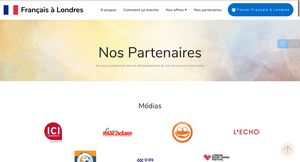
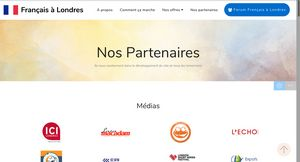
add expat et change movaway

diff --git a/nos-partenaires.html b/nos-partenaires.html
@@ -295,7 +295,7 @@ body{font-family: Roboto;}blockquote{border-color: #f9d5bd;}.display-1{font-fami
             <div class="item-card mbr-col-sm-12 mbr-col-md-6 mbr-col-lg-3 last-child">
                 <div class="client-wrapper">
                     <div class="wrap-img">
-                        <amp-img src="assets/images/expats-parents-logo-260x195.png" layout="responsive" width="130.66666666666666" height="98" alt="expatsparents.fr" class="mobirise-loader">
+                        <amp-img src="assets/images/expats-parents-logo-1-260x195.png" layout="responsive" width="130.66666666666666" height="98" alt="expatsparents.fr" class="mobirise-loader">
                             <div placeholder="">
                                 <div class="mobirise-spinner">
                                     <em></em>
@@ -490,10 +490,10 @@ body{font-family: Roboto;}blockquote{border-color: #f9d5bd;}.display-1{font-fami
             Logement</h2>
         
         <div class="mbr-row mbr-justify-content-center">
-            <div class="item-card mbr-col-sm-12 mbr-col-md-6 mbr-col-lg-4 md-pb">
+            <div class="item-card mbr-col-sm-12 mbr-col-md-6 mbr-col-lg-3 md-pb">
                 <div class="client-wrapper">
                     <div class="wrap-img">
-                        <amp-img src="assets/images/london-stay-uk-350x263.png" layout="responsive" width="175.66539923954375" height="132" alt="London stay uk" class="mobirise-loader">
+                        <amp-img src="assets/images/london-stay-uk-350x263.png" layout="responsive" width="127.75665399239544" height="96" alt="London stay uk" class="mobirise-loader">
                             <div placeholder="">
                                 <div class="mobirise-spinner">
                                     <em></em>
@@ -511,10 +511,10 @@ body{font-family: Roboto;}blockquote{border-color: #f9d5bd;}.display-1{font-fami
                 </div>
             </div>
 
-            <div class="item-card mbr-col-sm-12 mbr-col-md-6 mbr-col-lg-4 md-pb">
+            <div class="item-card mbr-col-sm-12 mbr-col-md-6 mbr-col-lg-3 md-pb">
                 <div class="client-wrapper">
                     <div class="wrap-img">
-                        <amp-img src="assets/images/room-club-350x263.png" layout="responsive" width="175.66539923954375" height="132" alt="Room Club" class="mobirise-loader">
+                        <amp-img src="assets/images/room-club-350x263.png" layout="responsive" width="127.75665399239544" height="96" alt="Room Club" class="mobirise-loader">
                             <div placeholder="">
                                 <div class="mobirise-spinner">
                                     <em></em>
@@ -532,10 +532,10 @@ body{font-family: Roboto;}blockquote{border-color: #f9d5bd;}.display-1{font-fami
                 </div>
             </div>
 
-            <div class="item-card mbr-col-sm-12 mbr-col-md-6 mbr-col-lg-4 last-child">
+            <div class="item-card mbr-col-sm-12 mbr-col-md-6 mbr-col-lg-3">
                 <div class="client-wrapper">
                     <div class="wrap-img">
-                        <amp-img src="assets/images/londres-facile-350x263.png" layout="responsive" width="175.66539923954375" height="132" alt="Londres-Facile" class="mobirise-loader">
+                        <amp-img src="assets/images/londres-facile-350x263.png" layout="responsive" width="127.75665399239544" height="96" alt="Londres-Facile" class="mobirise-loader">
                             <div placeholder="">
                                 <div class="mobirise-spinner">
                                     <em></em>
@@ -553,7 +553,26 @@ body{font-family: Roboto;}blockquote{border-color: #f9d5bd;}.display-1{font-fami
                 </div>
             </div>
 
-            
+            <div class="item-card mbr-col-sm-12 mbr-col-md-6 mbr-col-lg-3 last-child">
+                <div class="client-wrapper">
+                    <div class="wrap-img">
+                        <amp-img src="assets/images/1-256x192.png" layout="responsive" width="128" height="96" alt="movaway.fr" class="mobirise-loader">
+                            <div placeholder="">
+                                <div class="mobirise-spinner">
+                                    <em></em>
+                                    <em></em>
+                                    <em></em>
+                                </div>
+                            </div>
+                            <a href="https://movaway.fr/"></a>
+                        </amp-img>
+                    </div>
+                    <div class="card-box">
+                        
+                          
+                    </div> 
+                </div>
+            </div>
 
             
 
@@ -643,7 +662,7 @@ body{font-family: Roboto;}blockquote{border-color: #f9d5bd;}.display-1{font-fami
             <div class="item-card mbr-col-sm-12 mbr-col-md-6 mbr-col-lg-3 md-pb lg-pb">
                 <div class="client-wrapper">
                     <div class="wrap-img">
-                        <amp-img src="assets/images/1-256x192.png" layout="responsive" width="130.66666666666666" height="98" alt="movaway" class="mobirise-loader">
+                        <amp-img src="assets/images/centre-charle-peguy-logo-256x192.png" layout="responsive" width="130.66666666666666" height="98" alt="centrecharlespeguy.com/" class="mobirise-loader">
                             <div placeholder="">
                                 <div class="mobirise-spinner">
                                     <em></em>
@@ -651,7 +670,7 @@ body{font-family: Roboto;}blockquote{border-color: #f9d5bd;}.display-1{font-fami
                                     <em></em>
                                 </div>
                             </div>
-                            <a href="https://movaway.fr/"></a>
+                            <a href="http://www.centrecharlespeguy.com/"></a>
                         </amp-img>
                     </div>
                     <div class="card-box">
@@ -661,7 +680,7 @@ body{font-family: Roboto;}blockquote{border-color: #f9d5bd;}.display-1{font-fami
                 </div>
             </div>
 
-            <div class="item-card mbr-col-sm-12 mbr-col-md-6 mbr-col-lg-3">
+            <div class="item-card mbr-col-sm-12 mbr-col-md-6 mbr-col-lg-3 last-child">
                 <div class="client-wrapper">
                     <div class="wrap-img">
                         <amp-img src="assets/images/2-256x192.png" layout="responsive" width="130.66666666666666" height="98" alt="Emploi en France" class="mobirise-loader">
@@ -682,26 +701,7 @@ body{font-family: Roboto;}blockquote{border-color: #f9d5bd;}.display-1{font-fami
                 </div>
             </div>
 
-            <div class="item-card mbr-col-sm-12 mbr-col-md-6 mbr-col-lg-3 last-child">
-                <div class="client-wrapper">
-                    <div class="wrap-img">
-                        <amp-img src="assets/images/centre-charle-peguy-logo-256x192.png" layout="responsive" width="130.66666666666666" height="98" alt="centrecharlespeguy.com" class="mobirise-loader">
-                            <div placeholder="">
-                                <div class="mobirise-spinner">
-                                    <em></em>
-                                    <em></em>
-                                    <em></em>
-                                </div>
-                            </div>
-                            <a href="http://www.centrecharlespeguy.com/"></a>
-                        </amp-img>
-                    </div>
-                    <div class="card-box">
-                        
-                          
-                    </div> 
-                </div>
-            </div>
+            
 
             
 
